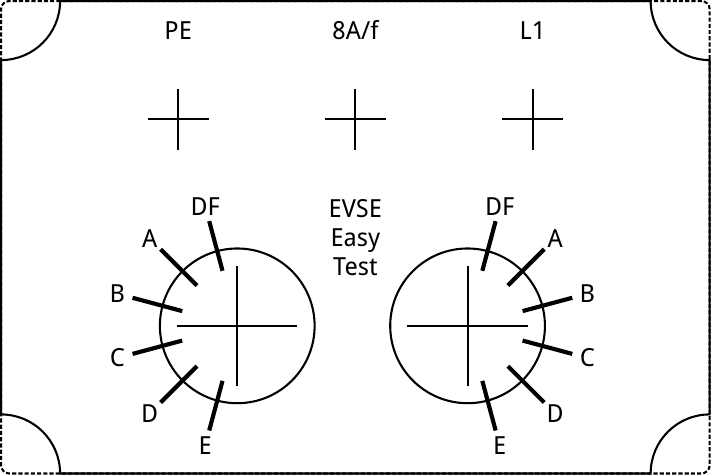
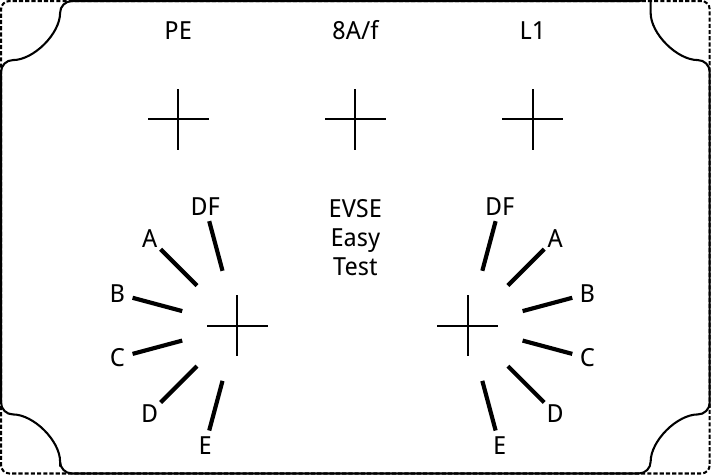
rounded corners

diff --git a/housing/EASY-Test-Sticker/sticker.tex b/housing/EASY-Test-Sticker/sticker.tex
@@ -14,7 +14,7 @@
 
 % Bopla ET-215 frame
 \draw[draw=black, dotted, rounded corners] (0,0) rectangle ++(120mm,80mm);
-\draw (0mm,70mm) arc[radius=10mm, start angle=-90, end angle=0] --
+\draw [rounded corners=2mm] (0mm,70mm) arc[radius=10mm, start angle=-90, end angle=0] --
 	(110mm,80mm) --
 	(110mm,80mm) arc[radius=10mm, start angle=180, end angle=270] --
 	(120mm,10mm) --
@@ -53,9 +53,9 @@
 
 % State dial
 \begin{scope}[shift={(79mm,25mm)}]
-	\draw (0,0) circle [radius=13.1mm];
-	\draw (0,1cm) -- (0,-1cm);
-	\draw (1cm,0) -- (-1cm,0);
+	%\draw (0,0) circle [radius=13.1mm];
+	\draw (0,5mm) -- (0,-5mm);
+	\draw (5mm,0) -- (-5mm,0);
 	\foreach \angle/\label [count=\xi] in 
 	{
 		75/DF,45/A,15/B,-15/C,-45/D,-75/E
@@ -68,9 +68,9 @@
 
 % Max current dial
 \begin{scope}[shift={(40mm,25mm)}]
-	\draw (0,0) circle [radius=13.1mm];
-	\draw (0,1cm) -- (0,-1cm);
-	\draw (1cm,0) -- (-1cm,0);
+	%\draw (0,0) circle [radius=13.1mm];
+	\draw (0,5mm) -- (0,-5mm);
+	\draw (5mm,0) -- (-5mm,0);
 	\foreach \angle/\label [count=\xi] in
 	{
 		180-75/DF,180-45/A,180-15/B,180+15/C,180+45/D,180+75/E
